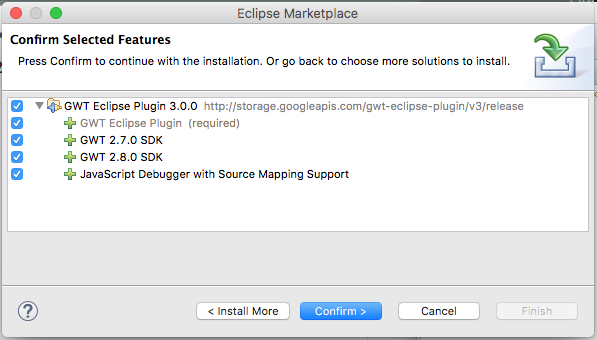
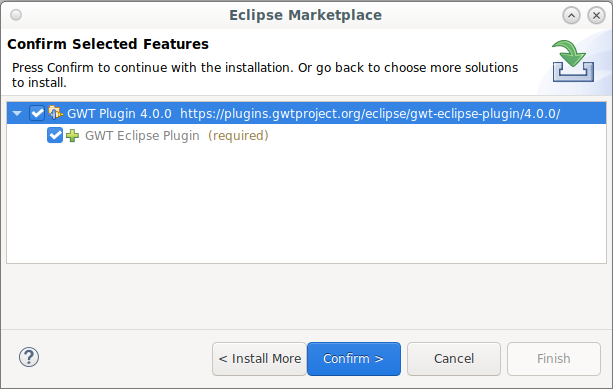
Updated the Download page to link to the new Marketplace Entry and generally reference the 4.0.0 version

Changed region(s): [[0.0, 0.0, 1.0, 1.0], [0.8744, 0.8824, 0.9648, 0.9412]]

diff --git a/src/main/markdown/main/gwt-eclipse-plugin/Download.md b/src/main/markdown/main/gwt-eclipse-plugin/Download.md
@@ -1,18 +1,14 @@
-# Download the GWT Eclipse Plugin (V3)
-This covers install the GWT Eclipse Plugin 3.0.0+.
-
-This plugin is of Beta quality. If you want to use the GPE-Fork, please goto the [GPE-Fork download](https://github.com/gwt-plugins/gwt-eclipse-plugin/tree/gpe-fork). 
-
-## GWT Eclipse Plugin (V3) 
-This plugin will be released November 2016.
+# Download the GWT Eclipse Plugin
+This covers install the GWT Eclipse Plugin.
 
 ### Plugin Features
 The available GWT Eclipse Plugin features.
 
 * GWT Eclipse Plugin - Required
-* GWT 2.7.0 SDK - Optional
 * GWT 2.8.0 SDK - Optional
-* JavaScript Debugger with Source Mapping Support - Optional and Recommended  
+* GWT 2.9.0 SDK - Optional
+* GWT 2.10.0 SDK - Optional
+* JavaScript Debugger with Source Mapping Support - Optional and Recommended
 
 ### Plugin Feature Conflicts
 Uninstall the Google Plugin for Eclipse (GPE or GPE-Fork) before installing.
@@ -26,7 +22,7 @@ The easiest option is to install from the Eclipse Market Place using either #1 o
 ## 1. Use the Drag and Drop Install Button
 Drag and drop the `install` button into Eclipse.
 
-<a href="http://marketplace.eclipse.org/marketplace-client-intro?mpc_install=3107469" class="drag" title="Drag to your running Eclipse workspace to install GWT Eclipse Plugin"><img class="img-responsive" src="https://marketplace.eclipse.org/sites/all/themes/solstice/public/images/marketplace/btn-install.png" alt="Drag to your running Eclipse workspace to install GWT Eclipse Plugin" /></a>
+<a href="https://marketplace.eclipse.org/marketplace-client-intro?mpc_install=5576850" class="drag" title="Drag to your running Eclipse* workspace. *Requires Eclipse Marketplace Client"><img style="width:80px;" typeof="foaf:Image" class="img-responsive" src="https://marketplace.eclipse.org/sites/all/themes/solstice/public/images/marketplace/btn-install.svg" alt="Drag to your running Eclipse* workspace. *Requires Eclipse Marketplace Client" /></a>
 
 Then choose the features to be installed.
 <img src="images/MarketPlaceFeatures.png" />
@@ -58,11 +54,6 @@ Then add the update site and name it `GWT Eclipse Plugin`.
 <img src="images/UpdateSite.png" />
 
 Copy and paste this update repository URL and paste it into the `Work with` in the Eclipse dialog and click enter. 
-[http://storage.googleapis.com/gwt-eclipse-plugin/v3/release](http://storage.googleapis.com/gwt-eclipse-plugin/v3/release)
-
-
-
-## Google Cloud Features
-If you're looking for Google Cloud features such as App Engine Integration, then you'll want to install [Google Cloud Tools for Eclipse](https://cloud.google.com/eclipse).
+[https://plugins.gwtproject.org/eclipse/gwt-eclipse-plugin/4.0.0/](https://plugins.gwtproject.org/eclipse/gwt-eclipse-plugin/4.0.0/)
 
 
